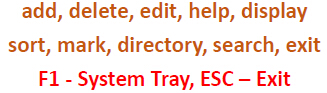
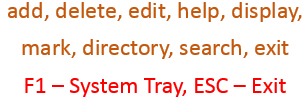
Remove sort.

Changed region(s): [[0.0, 0.0, 1.0, 0.2366], [0.0588, 0.7527, 0.9412, 0.9892], [0.0, 0.3871, 1.0, 0.6022]]

diff --git a/oop test/ExecuteSort.cpp b/oop test/ExecuteSort.cpp
@@ -12,7 +12,7 @@ ExecuteSort::~ExecuteSort()
 string ExecuteSort::undo() {
 	return "";
 }
-//@author A0108341R
+//@author A0108341R -unused
 string ExecuteSort::execute(Storage& _storage, ExtDataBase extdb, vector<list<StickyNote>::iterator>& _allItems, bool& successful) {
 
 	ostringstream oss;
@@ -38,7 +38,7 @@ string ExecuteSort::execute(Storage& _storage, ExtDataBase extdb, vector<list<St
 	successful = true;
 	return oss.str();
 }
-//@author A0110748J
+//@author A0110748J -unused
 string ExecuteSort::getTodayDate(){
 	time_t rawTime;
 	struct tm * timeInfo = new struct tm;
@@ -54,7 +54,7 @@ string ExecuteSort::getTodayDate(){
 	string currentDate = to_string(day) + "/" + to_string(month);
 	return currentDate;
 }
-//@author A0108375A
+//@author A0108375A -unused
 string ExecuteSort::getAllInfoOfOneTask(list<StickyNote>::iterator iter){
 
 	ostringstream oss;
@@ -66,7 +66,7 @@ string ExecuteSort::getAllInfoOfOneTask(list<StickyNote>::iterator iter){
 	return oss.str();
 
 }
-//@author A0093863U
+//@author A0093863U -unused
 string ExecuteSort::sortTasksByDate(Storage& _storage){
 
 	vector<list<StickyNote>::iterator> futureTasks;
@@ -199,7 +199,7 @@ string ExecuteSort::sortTasksByDate(Storage& _storage){
 
 	return oss.str();
 }
-//@author A0110748J
+//@author A0110748J -unused
 void ExecuteSort::getFutureTasks(vector<list<StickyNote>::iterator> &futureTasks, Storage& _storage){
 
 	list<StickyNote>::iterator iter = _storage.getIter();
@@ -234,7 +234,7 @@ void ExecuteSort::getFutureTasks(vector<list<StickyNote>::iterator> &futureTasks
 
 	return;
 }
-//@author A0108341R
+//@author A0108341R -unused
 string ExecuteSort::sortTasksPriority(Storage& _storage){
 	vector<list<StickyNote>::iterator> futureTasks, highPrior, midPrior, lowPrior, unbounded, sortedTasksByPrior;
 	ostringstream oss;

diff --git a/oop test/ExecuteHelp.cpp b/oop test/ExecuteHelp.cpp
@@ -145,14 +145,14 @@ string ExecuteHelp::execute(Storage& _storage, ExtDataBase extdb, vector<list<St
 			<< "1. directory D:\\\savefile.txt"
 			<< "\r\n";
 	}
-	else if (desireCommand == "sort"){
+/*	else if (desireCommand == "sort"){
 		oss << "To use SORT, it should be input in the following format: " << "\r\n"
 			<< "sort by <criteria>" << "\r\n"
 			<< "1. sort by date" << "\r\n"
 			<< "2. sort by priority"
 			<< "\r\n";
 	}
-
+*/
 	else if (desireCommand == "mark"){
 		oss << "To use MARK, it should be input in the following format: " << "\r\n"
 			<< "\r\n"

diff --git a/WiseUI/WiseGUI.h b/WiseUI/WiseGUI.h
@@ -131,7 +131,7 @@ namespace WiseUI {
 				 // 
 				 // displayBox
 				 // 
-				 this->displayBox->Location = System::Drawing::Point(12, 47);
+				 this->displayBox->Location = System::Drawing::Point(12, 49);
 				 this->displayBox->Multiline = true;
 				 this->displayBox->Name = L"displayBox";
 				 this->displayBox->ReadOnly = true;

diff --git a/oop test/Parser.cpp b/oop test/Parser.cpp
@@ -73,9 +73,6 @@ UserTask* Parser::parse(string command) {
 	else if (command == "directory") {
 		_task->setCommand(COMMAND::DIRECTORY);
 	}
-	else if (command == "sort") {
-		_task->setCommand(COMMAND::SORT);
-	}
 	else if (command == "help") {
 		_task->setCommand(COMMAND::HELP);
 	}

diff --git a/oop test/Logic.cpp b/oop test/Logic.cpp
@@ -77,8 +77,6 @@ Executor* Logic::dispatch(UserTask* task) {
 		return new ExecuteEdit(task);
 	case SEARCH:
 		return new ExecuteSearch(task);
-	case SORT:
-		return new ExecuteSort(task);
 	case DISPLAY:
 		return new ExecuteDisplay(task);
 	case HELP:

diff --git a/oop test/Global.h b/oop test/Global.h
@@ -55,6 +55,6 @@ const int DAY_PER_WEEK = 7;
 
 enum COMMAND {
 
-	ADD,DELETE,EDIT,SEARCH,DISPLAY,SORT,DIRECTORY,HELP,ERROR,EXIT,UNDO, MARK
+	ADD,DELETE,EDIT,SEARCH,DISPLAY,DIRECTORY,HELP,ERROR,EXIT,UNDO, MARK
 
 };
